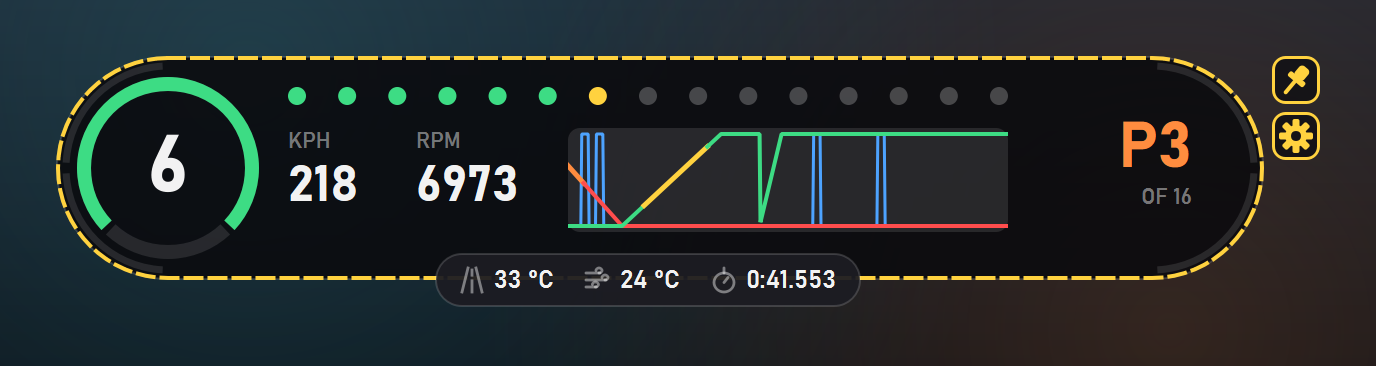
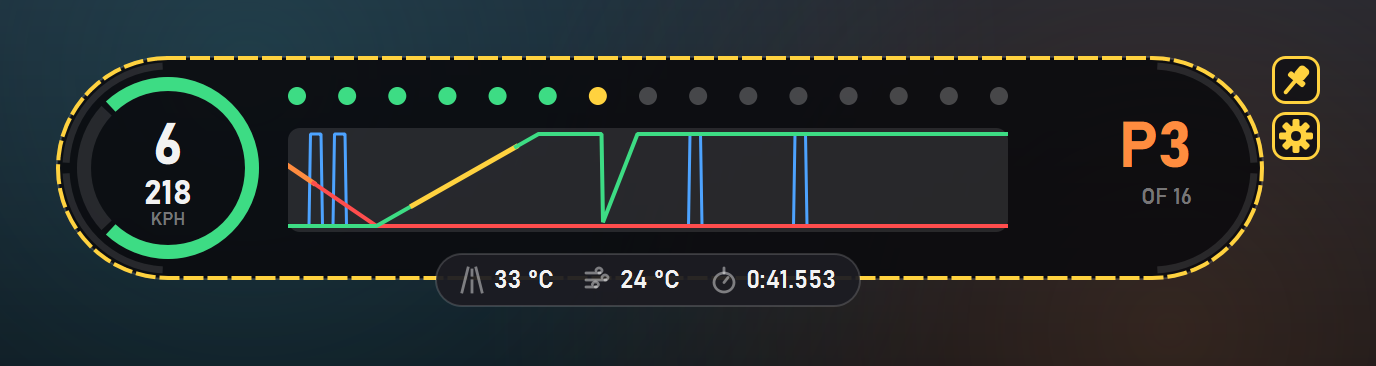
Rotate the pedal ring, put speed inside it, widen the trace
- Rotate the throttle/brake ring 90 degrees: both now start at the
  top-left; throttle fills 3/4 clockwise over the top and right, brake
  fills the west quarter downwards
- Smaller gear number with the speed and "KPH" below it, inside the ring
- Drop the RPM number (the dot shift lights still show RPM); the input
  trace takes its space (220 -> 360 px) at the same pill width

Changed region(s): [[0.0312, 0.2705, 0.5938, 0.7213], [0.625, 0.3607, 0.6562, 0.6011]]

diff --git a/ace_overlay/overlay.py b/ace_overlay/overlay.py
@@ -25,8 +25,8 @@ TEXT = QColor("#f2f2f2")
 DIM = QColor(255, 255, 255, 110)
 
 # The pill. Its rounded ends carry the TC / ABS arcs (left end = car's left wheels, right end = right
-# wheels; upper quarter TC, lower quarter ABS). The gear ring sits inside the left end; then the dot
-# shift lights over KPH/RPM and the trace, then the position. The chip hangs off the bottom edge.
+# wheels; upper quarter TC, lower quarter ABS). The gear ring (with the speed) sits inside the left end;
+# then the dot shift lights over the trace, then the position. The chip hangs off the bottom edge.
 PH = 112  # pill height
 R = PH // 2  # end radius
 CHIP_H = 26
@@ -35,11 +35,10 @@ ARC_R, ARC_W = R - 5, 3.5  # TC / ABS end arcs: radius (to stroke centre) and st
 RING_CX, RING_CY, RING_R, RING_W = R, R, 42, 7  # gear ring, concentric with the left end
 CX0 = RING_CX + RING_R + 18  # start of the middle section
 DOT_Y, DOT_D = 20, 9  # shift-light row centre and dot diameter
-READ_W = 128  # KPH / RPM block
-TRACE_X, TRACE_Y, TRACE_W, TRACE_H = CX0 + READ_W + 12, 36, 220, 52  # the time window is Config.trace_seconds
+TRACE_X, TRACE_Y, TRACE_W, TRACE_H = CX0, 36, 360, 52  # the time window is Config.trace_seconds
 POS_X, POS_W = TRACE_X + TRACE_W + 12, 80
 W = POS_X + POS_W + R - 20  # the position runs a little way into the right end's curve
-CHIP_CX = (CX0 + TRACE_X + TRACE_W) / 2  # chip centred under KPH/RPM + trace
+CHIP_CX = TRACE_X + TRACE_W / 2  # chip centred under the trace
 
 SHIFT_LEDS = 15  # thresholds and colours come from Config
 AID_HOLD_S = 0.15  # keep a TC/ABS light flashing briefly so single-step triggers are visible
@@ -327,7 +326,6 @@ class InputsOverlay(OverlayWindow):
         self.draw_end_arcs(p)
         self.draw_ring(p, f)
         self.draw_dots(p, f)
-        self.draw_readouts(p, f)
         self.draw_trace(p)
         self.draw_position(p)
         self.draw_chip(p, f)
@@ -347,12 +345,12 @@ class InputsOverlay(OverlayWindow):
                 p.drawArc(box, int((start + gap / 2) * 16), int((90 - gap) * 16))
 
     def draw_ring(self, p, f):
-        """Gear in a ring: throttle fills 3/4 of it clockwise over the top (green), brake fills the
-        bottom quarter the other way (red). Both start at the bottom-left."""
+        """Gear and speed in a ring: throttle fills 3/4 of it clockwise over the top and right
+        (green), brake fills the west quarter downwards (red). Both start at the top-left."""
         box = QRectF(RING_CX - RING_R, RING_CY - RING_R, 2 * RING_R, 2 * RING_R)
         gap = 4  # degrees between the two tracks
-        throttle = (225 - gap / 2, -(270 - gap))  # (start, full span), Qt angles: CCW from 3 o'clock
-        brake = (225 + gap / 2, 90 - gap)
+        throttle = (135 - gap / 2, -(270 - gap))  # (start, full span), Qt angles: CCW from 3 o'clock
+        brake = (135 + gap / 2, 90 - gap)
         for (start, span), value, color in ((throttle, f.gas, THROTTLE), (brake, f.brake, BRAKE)):
             p.setPen(QPen(TRACK, RING_W, Qt.SolidLine, Qt.FlatCap))
             p.drawArc(box, int(start * 16), int(span * 16))
@@ -361,9 +359,15 @@ class InputsOverlay(OverlayWindow):
                 p.setPen(QPen(color, RING_W, Qt.SolidLine, Qt.FlatCap))
                 p.drawArc(box, int(start * 16), int(span * value * 16))
         gear = "R" if f.gear == 0 else "N" if f.gear == 1 else str(f.gear - 1)
+        cx, cy, w = RING_CX, RING_CY, 60
         p.setPen(TEXT)
-        p.setFont(font(30, QFont.Bold))
-        p.drawText(box, Qt.AlignCenter, gear)
+        p.setFont(font(22, QFont.Bold))
+        p.drawText(QRectF(cx - w / 2, cy - 30, w, 34), Qt.AlignHCenter | Qt.AlignBottom, gear)
+        p.setFont(font(13, QFont.Bold))
+        p.drawText(QRectF(cx - w / 2, cy + 4, w, 18), Qt.AlignCenter, f"{f.speedKmh:.0f}")
+        p.setPen(DIM)
+        p.setFont(font(6.5))
+        p.drawText(QRectF(cx - w / 2, cy + 21, w, 10), Qt.AlignCenter, "KPH")
 
     def draw_dots(self, p, f):
         """Shift lights as dots, spread evenly from rpm_start to rpm_flash; each takes the colour of
@@ -384,17 +388,6 @@ class InputsOverlay(OverlayWindow):
                 color = DOT_OFF
             p.setBrush(color)
             p.drawEllipse(QPointF(x0 + i * step, DOT_Y), DOT_D / 2, DOT_D / 2)
-
-    def draw_readouts(self, p, f):
-        half = READ_W / 2
-        for i, (label, value) in enumerate((("KPH", f"{f.speedKmh:.0f}"), ("RPM", f"{f.rpms}"))):
-            x = CX0 + i * half
-            p.setPen(DIM)
-            p.setFont(font(8))
-            p.drawText(QRectF(x, 36, half, 14), Qt.AlignLeft | Qt.AlignVCenter, label)
-            p.setPen(TEXT)
-            p.setFont(font(19, QFont.Bold))
-            p.drawText(QRectF(x, 48, half + 8, 34), Qt.AlignLeft | Qt.AlignVCenter, value)
 
     def draw_trace(self, p):
         """Each reading is placed by its real age, so the right edge is always the live input and

diff --git a/README.md b/README.md
@@ -23,11 +23,12 @@
 
 ## Features
 
-- **Gear and pedal ring.** The gear sits inside a ring at the left end of the pill: throttle fills
-  three quarters of it in green, and brake fills the bottom quarter in red.
-- **Shift lights.** A row of 15 dots with configurable colour zones and flash point.
-- **Speed, RPM and position** at a glance. Position shows as "P19" (with "of 20" underneath)
-  whenever the game ranks the session.
+- **Gear and pedal ring.** A ring at the left end of the pill, with the gear and speed inside it.
+  Throttle fills three quarters of it in green, clockwise from the top-left, and brake fills the left
+  quarter in red.
+- **Shift lights.** A row of 15 dots with configurable colour zones and flash point. They're also
+  the RPM readout.
+- **Position.** Shows as "P19" (with "of 20" underneath) whenever the game ranks the session.
 - **Real-time input trace.** Scrolling throttle, brake and clutch history. The right edge is always
   your live input, and the time window (2–30 s) can be changed on the fly. The brake line turns orange
   while ABS works, and the throttle line yellow while TC cuts.
@@ -68,7 +69,7 @@
   <tr>
     <td width="50%">
       <img src="docs/images/abs-braking.png" alt="Left ABS arc lit while trail braking">
-      <p align="center"><sub><b>Trail braking into a left-hander.</b> The ring's red quarter shows the brake, and only the left ABS arc lights, where the unloaded inside wheels lock first.</sub></p>
+      <p align="center"><sub><b>Trail braking into a left-hander.</b> The ring's red left quarter shows the brake, and only the left ABS arc lights, where the unloaded inside wheels lock first.</sub></p>
     </td>
     <td width="50%">
       <img src="docs/images/tc-exit.png" alt="Left TC arc lit on corner exit">

diff --git a/CLAUDE.md b/CLAUDE.md
@@ -68,8 +68,9 @@ python -m venv .venv && .venv\Scripts\pip install -e .[build,dev]
   them doesn't take focus from the game.
 - The HUD is a pill. Its rounded ends are thin TC/ABS arc lines (upper quarter TC, lower quarter
   ABS; left end = car's left wheels, right end = right wheels, via `slipping_sides()`). The gear ring
-  (throttle on 3/4, brake on the bottom 1/4) is concentric with the left end, then come the dot shift
-  lights over KPH/RPM and the trace, then the position. A chip (track °C, air °C, current lap) hangs over the bottom edge. The layout is
+  is concentric with the left end. Throttle fills 3/4 clockwise from the top-left (135°) and brake the
+  west quarter, with the gear and speed inside it. Then come the dot shift lights (the only RPM display;
+  there's no RPM number) over the trace, which starts at `CX0`, then the position. A chip (track °C, air °C, current lap) hangs over the bottom edge. The layout is
   constant-driven at the top of `overlay.py` (`PH`, `R`, `RING_*`, `CX0`, `TRACE_*`, `POS_*`, `W`):
   extend that chain, not hard-coded coordinates. Fonts go through `font()` (Bahnschrift, then Segoe UI).
 - Tyre temperatures, pedal bars and the boost bar were dropped from the HUD in the redesign at the
